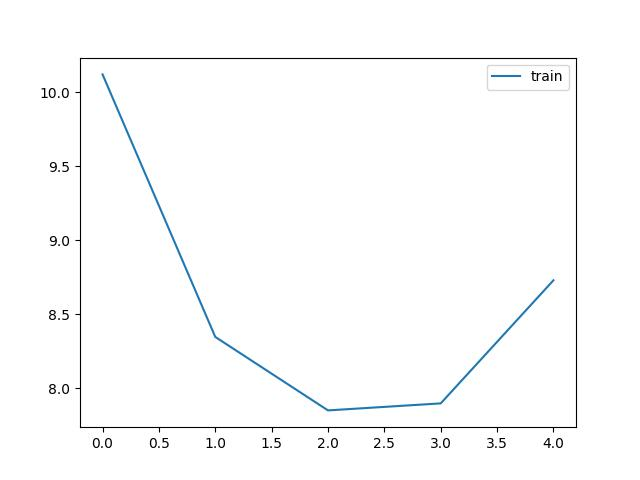
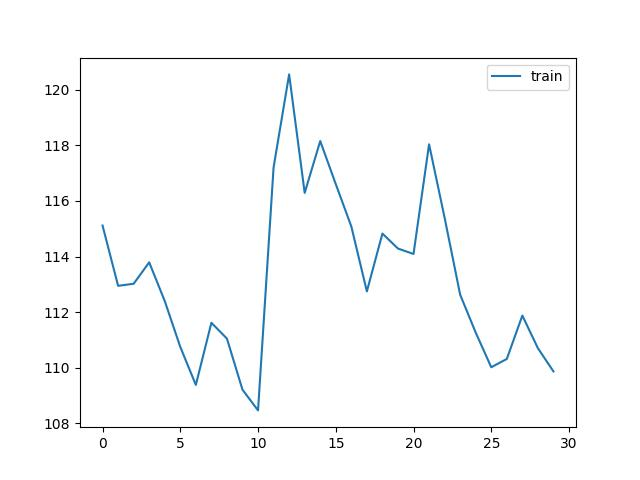
240312 suh

diff --git a/onj_3D_model/train.py b/onj_3D_model/train.py
@@ -41,38 +41,51 @@ BCE_WEIGHTS = [0.004, 0.996]
 if not os.path.exists(save_dir):
     os.makedirs(save_dir)
 
-x_train = np.load(data_dir+'/'+'train_total_tmp.npy')
-y_train = np.load(data_dir+'/'+'train_label_tmp.npy')
+# x_train = np.load(data_dir+'/'+'train_total_mini.npy') # memory
+# y_train = np.load(data_dir+'/'+'train_label_mini.npy')
 
-x_val = np.load(data_dir+'/'+'val_total_tmp.npy')
-y_val = np.load(data_dir+'/'+'val_label_tmp.npy')
 
-x_test = np.load(data_dir+'/'+'test_total_tmp.npy')
-y_test = np.load(data_dir+'/'+'test_label_tmp.npy')
+
+# x_val = np.load(data_dir+'/'+'val_total.npy')
+# y_val = np.load(data_dir+'/'+'val_label.npy')
+
+# x_test = np.load(data_dir+'/'+'test_total.npy')
+# y_test = np.load(data_dir+'/'+'test_label.npy')
+
 
 class CustomDataset(Dataset):
-    def __init__(self, img, Y):
-        self.img = torch.Tensor(img).float().to(device)
-        self.Y = torch.Tensor(Y).float().to(device)
+    def __init__(self, split):
+        if split == 'train':
+
+            self.img = np.load(data_dir+f'/{split}_total_mini.npy', mmap_mode='r')
+            self.Y = np.load(data_dir+f'/{split}_label_mini.npy', mmap_mode='r')
+        elif split in ['test', 'val']:
+            self.img = np.load(data_dir+f'/{split}_total.npy', mmap_mode='r')
+            self.Y = np.load(data_dir+f'/{split}_label.npy', mmap_mode='r')
+
+        # self.img = torch.Tensor(self.img).float().to(device)
+        # self.Y = torch.Tensor(self.Y).float().to(device)
         
     def __len__(self):
         return len(self.img)
     
     def __getitem__(self, idx):
         
-        img_idx = self.img[idx]
-        Y_idx = self.Y[idx]
+        img_idx = self.load_data(self.img, idx)
+        Y_idx = self.load_data(self.Y, idx)
     
         return img_idx, Y_idx
+    def load_data(self, mmap_array, idx):
+        return mmap_array[idx]
 
 
-train_dataset = CustomDataset(x_train, y_train)
-val_dataset = CustomDataset(x_val, y_val)
-test_dataset = CustomDataset(x_test, y_test)
+train_dataset = CustomDataset('train')
+val_dataset = CustomDataset('val')
+test_dataset = CustomDataset('test')
 
 train_dataloader = DataLoader(train_dataset, batch_size = BATCH_SIZE, shuffle=True)
-# val_dataloader = DataLoader(val_dataset, batch_size = BATCH_SIZE, shuffle=True)
-# test_dataloader = DataLoader(test_dataset, batch_size = len(test_dataset), shuffle=True) #For using FindBoundary, we have to set BATCH_SIZE as BATCH_SIZE
+val_dataloader = DataLoader(val_dataset, batch_size = len(val_dataset), shuffle=True)
+test_dataloader = DataLoader(test_dataset, batch_size = len(test_dataset), shuffle=True) #For using FindBoundary, we have to set BATCH_SIZE as BATCH_SIZE
 
 
 model = UNet3D(in_channels=IN_CHANNELS, num_classes = 2).to(device)
@@ -96,10 +109,11 @@ scheduler = torch.optim.lr_scheduler.LambdaLR(optimizer=optimizer, lr_lambda=lam
 
 
 total_loss = []
+total_val_loss = []
 best_loss = 1000
 
 # Training loop
-for epoch in range(5):
+for epoch in range(30):
     print('epoch: ', epoch)
     
     with tqdm(dataloader, unit='batch') as tepoch:
@@ -112,7 +126,8 @@ for epoch in range(5):
             img = img.unsqueeze(1)
             y = y.unsqueeze(1)
             
-
+            img = torch.Tensor(img).float().to(device)
+            y = torch.Tensor(y).float().to(device)
             pred = model(img)
             loss = criterion(pred, y)
             tepoch.set_postfix(loss=loss.item())
@@ -142,32 +157,56 @@ for epoch in range(5):
                 plt.savefig(save_dir+f'/test.jpg')
                 plt.close()
 
-        print(batch_loss)   
-        print(total_loss)    
+        batch_loss /= idx
         total_loss = np.append(total_loss, batch_loss)
-    if args.m == 1:        
-        if batch_loss < best_loss:
+    if args.m == 1:       
+        ## check validation loss
+        val_batch_loss = 0
+        for val_idx, (val_img, val_y) in enumerate(val_dataloader):
+
+            batch_size = img.shape[0]
+            img = img.unsqueeze(1)
+            y = y.unsqueeze(1)
+        
+            
+            val_batch_size = val_img.shape[0]
+            val_img = val_img.unsqueeze(1)
+            val_y = val_y.unsqueeze(1)
+
+            val_img = val_img[:10]
+            val_y = val_y[:10]
+            
+            val_img = torch.Tensor(val_img).float().to(device)
+            val_y = torch.Tensor(val_y).float().to(device)
+            val_pred = model(val_img)
+            val_loss = criterion(val_pred, val_y)
+            val_batch_loss += val_loss / val_batch_size
+
+        total_val_loss = np.append(total_val_loss, val_batch_loss)
+
+        if val_batch_loss < best_loss:
 
             torch.save({
                         'model_state_dict': model.state_dict(),
                         'loss': batch_loss},
-                        save_dir+'/'+'model.pth')
+                        save_dir+'/'+'model_state_dict.pth')
 
             torch.save(model, save_dir+'/'+'model.pth')
 
-            best_loss = batch_loss
+            best_loss = val_batch_loss
                                     
         else:
             pass
         
             
-    print('loss: ', batch_loss)
+    print('train loss: ', batch_loss, 'val loss: ', val_batch_loss)
         
 
     total_loss = np.array(total_loss)
+    total_val_loss = np.array(total_val_loss)
 
     plt.plot(total_loss, label='train')
-    # plt.plot(total_loss_val, label='val')
+    plt.plot(total_val_loss, label='val')
     plt.legend()
     plt.savefig(save_dir+'/train_loss.jpg')
     plt.close()
